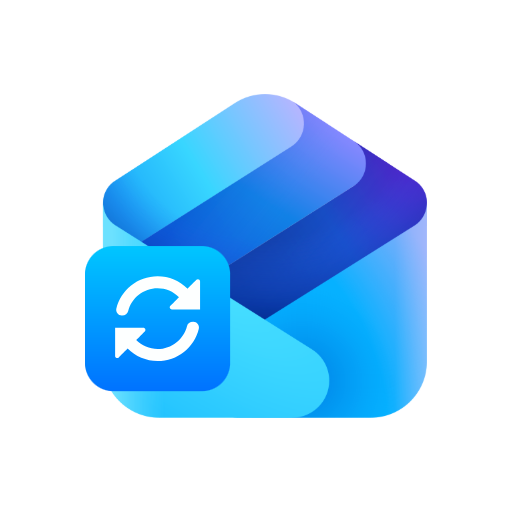
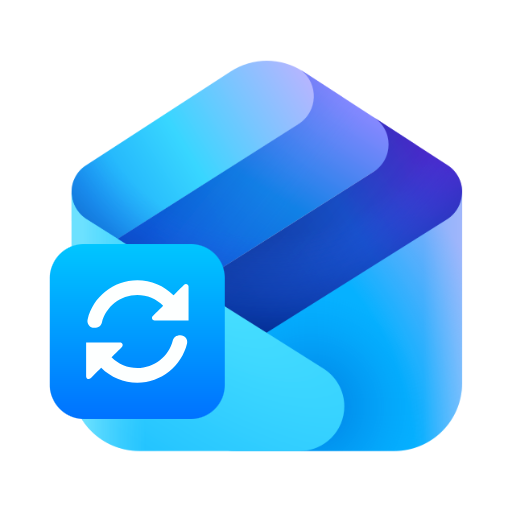
Improve settings page and contact view UI
- Move version to About section with copyright notice
- Move block sync field to dedicated Outlook Pro tab on contacts
- Use boolean toggle widget for cleaner UX
- Update module icon
- Update CLAUDE.md with per-repo Docker setup

diff --git a/CLAUDE.md b/CLAUDE.md
@@ -48,42 +48,81 @@ Send and receive emails via Microsoft Graph API with OAuth 2.0 delegated permiss
 
 ## Development
 
-Docker setup lives in the parent repo `odoo-pantalytics/.local/`.
+Each addon repo can be tested independently with its own `.local/` directory. A shared Dockerfile lives in the parent folder since Odoo Enterprise source is shared.
+
+### Directory structure
+```
+~/Documents/GitHub/
+├── .docker/
+│   └── Dockerfile               ← Shared Dockerfile (Enterprise + deps)
+├── .dockerignore                 ← Limits build context to odoo-enterprise/
+├── odoo-enterprise/              ← Odoo 19 Enterprise source (shared)
+├── pan_outlook_pro/              ← This repo
+│   └── .local/                   ← Per-repo Docker config (gitignored)
+│       ├── docker-compose.yml
+│       └── odoo.conf
+├── odoo-pantalytics/
+│   └── .local/                   ← Per-repo Docker config
+└── odoo-customer-goudsmit/
+    └── .local/                   ← Per-repo Docker config
+```
+
+### Container filesystem
+```
+/opt/odoo/odoo-enterprise/       ← COPIED into image (rebuild needed for changes)
+/mnt/extra-addons/               ← BIND MOUNT from host (live editing, no commit needed)
+/var/lib/odoo/                   ← NAMED VOLUME (persistent filestore + sessions)
+/etc/odoo/odoo.conf              ← BIND MOUNT from host (live editing)
+```
+
+### Volume mounts per repo
+
+| Repo | Mount | Effect |
+|------|-------|--------|
+| pan_outlook_pro | `..:/mnt/extra-addons/pan_outlook_pro` | Single addon, direct from repo |
+| odoo-pantalytics | `../addons:/mnt/extra-addons` | All addons via submodules |
+| odoo-customer-goudsmit | `../addons:/mnt/extra-addons` | All addons via submodules |
+
+Key config: `data_dir = /var/lib/odoo` in odoo.conf MUST match the volume mount in docker-compose.yml.
 
 ### Local Docker Setup
 ```bash
-cd ../odoo-pantalytics/.local
-docker-compose up -d
-# Odoo at http://localhost:8069
-# Database: test_db
+cd .local
+docker-compose up -d             # Odoo at http://localhost:8069, db: test_db
 ```
 
 ### Restart after Python changes
 ```bash
-cd ../odoo-pantalytics/.local
+cd .local
 docker-compose restart odoo
 ```
 
-### Upgrade module (apply model changes)
+### Upgrade module (apply model/view/data changes)
 ```bash
-cd ../odoo-pantalytics/.local
+cd .local
 docker-compose exec -T odoo python -m odoo -c /etc/odoo/odoo.conf -d test_db -u pan_outlook_pro --stop-after-init
 docker-compose restart odoo
 ```
 
 ### View logs
 ```bash
-cd ../odoo-pantalytics/.local
+cd .local
 docker-compose logs -f odoo
 ```
 
 ### Run unit tests
 ```bash
-cd ../odoo-pantalytics/.local
+cd .local
 docker-compose stop odoo
 docker-compose run --rm odoo python -m odoo -c /etc/odoo/odoo.conf \
   -d test_db -u pan_outlook_pro --test-enable --test-tags=pan_outlook_pro --stop-after-init
 docker-compose start odoo
+```
+
+### Rebuild image (only when Dockerfile or odoo-enterprise changes)
+```bash
+cd .local
+docker-compose build odoo && docker-compose up -d
 ```
 
 ## Conventions
@@ -224,10 +263,17 @@ After every `/compact`, update the **Lessons Learned** section below with new in
 
 ## Lessons Learned
 
-- **Fresh Docker build = missing assets**: After a fresh build, filestore is empty. Run `docker-compose exec -T odoo python -m odoo -c /etc/odoo/odoo.conf -d test_db -u web,base,base_setup --stop-after-init` to regenerate app icons and assets.
-- **Old Docker containers cause socket errors**: When moving `.local/` directory, always stop/remove old containers before rebuilding.
+### Docker
+- **`data_dir` must match volume mount**: `data_dir = /var/lib/odoo` in odoo.conf must match `odoo-data:/var/lib/odoo` in docker-compose.yml. Mismatch = filestore lost on restart.
+- **Stale asset attachments after volume reset**: If assets 404, run: `docker-compose exec -T db psql -U odoo -d test_db -c "DELETE FROM ir_attachment WHERE url LIKE '/web/assets/%';"` then restart. Odoo regenerates them.
+- **`--dev=reload` crashes on macOS Docker**: watchdog inotify doesn't work reliably in Docker on macOS. Use `dev_mode = xml` only in odoo.conf.
+- **Don't duplicate dev_mode**: Set `dev_mode` in odoo.conf only, not also `--dev=all` in docker-compose command.
+- **`.dockerignore` at build context root**: Build context is `../../` (GitHub parent). Without `.dockerignore`, all repos are sent to Docker daemon. Add `*` + `!odoo-enterprise/`.
+- **`addons_path` needs 3 entries**: `/opt/odoo/odoo-enterprise` (enterprise addons like account), `/opt/odoo/odoo-enterprise/odoo/addons` (core addons like base, web), `/mnt/extra-addons` (custom addons).
+- **Never `docker-compose down -v`**: The `-v` flag deletes volumes including filestore. Use `docker-compose down` without `-v`.
+
+### OAuth / Graph API
 - **OAuth tokens only contain requested scopes**: Adding permissions in Azure Portal is not enough - the scopes must also be listed in the authorization URL in `microsoft_graph_client.py`. Users need to re-authenticate after scope changes.
-- **Submodule sync required for Docker testing**: Changes in `pan_outlook_pro` must be committed+pushed, then pull in submodule before Docker sees them. Workflow: commit → push → `cd ../odoo-pantalytics/addons/pan_outlook_pro && git pull origin 19.0` → upgrade module → restart.
 
 ## Documentation
 
